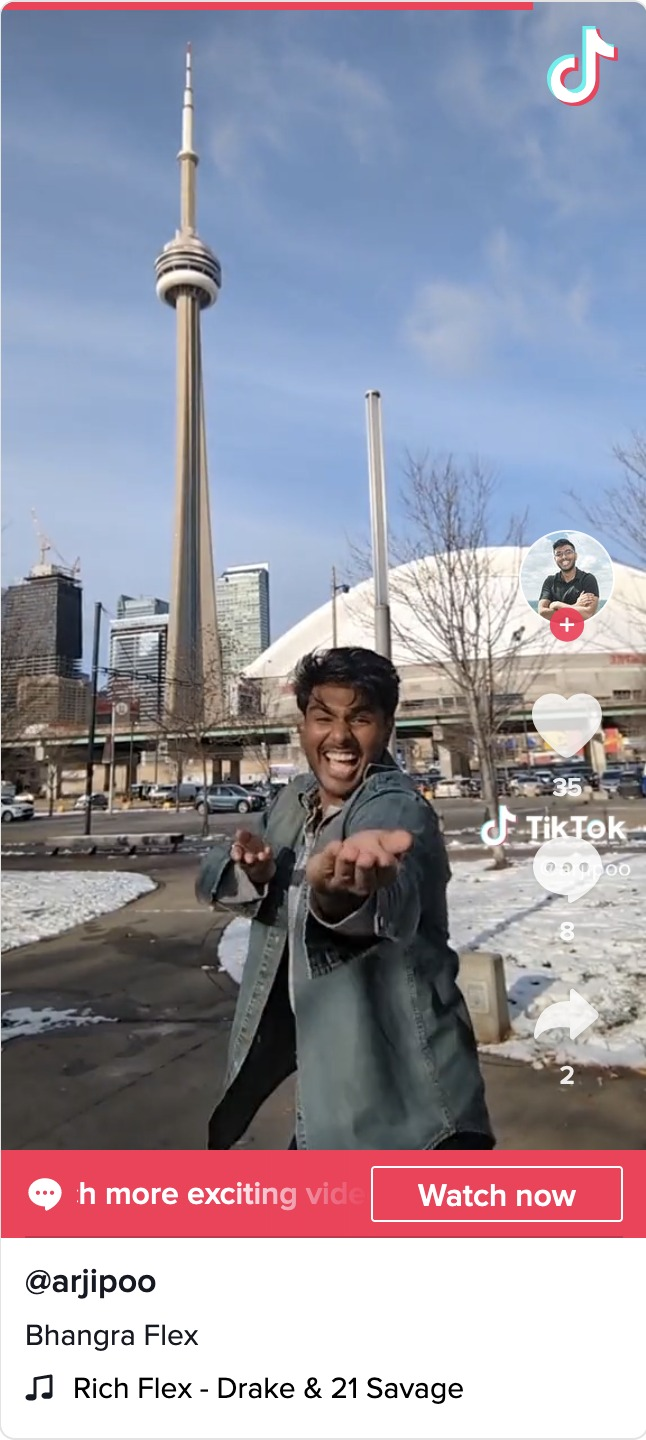
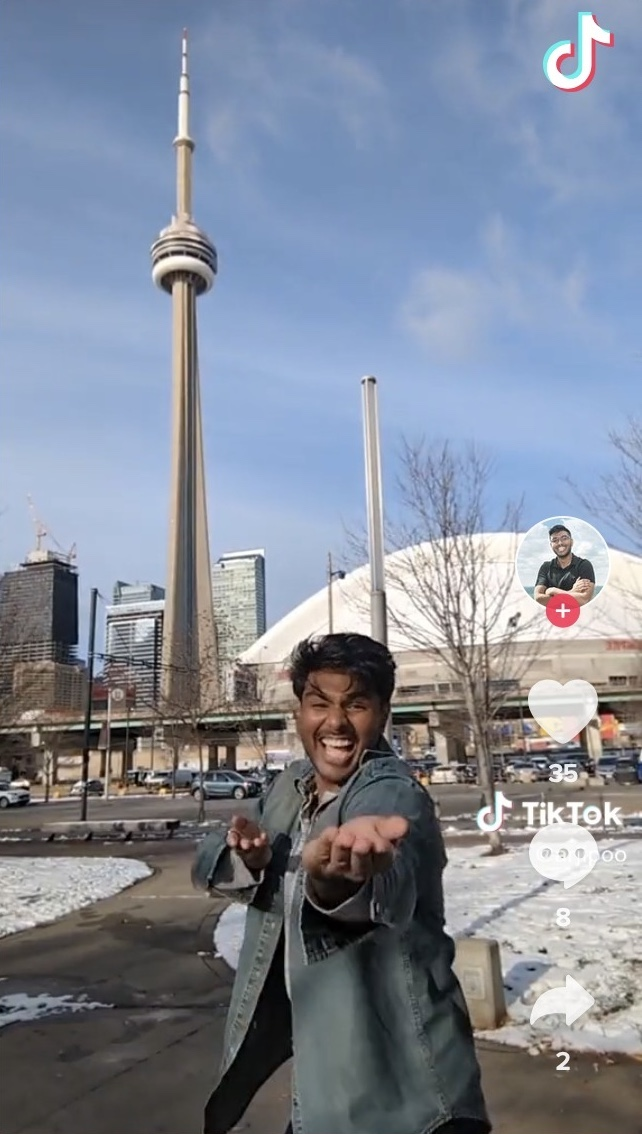
update tiktokpic + images size/place + tab button colour

diff --git a/src/routes/+page.svelte b/src/routes/+page.svelte
@@ -177,28 +177,29 @@
 				</blockquote>
 				<script async src="https://www.tiktok.com/embed.js"></script>
 			{:else}
-				<a class="tiktokpic" href="https://www.tiktok.com/@arjipoo/video/7167011413393706246">
-					<img
+				<div class="posts">
+					<a
+						class="post"
 						target="_blank"
-						style="width: 325px;"
-						src="{base}/tiktok.jpeg"
-						alt="Arjun's Bhangra Flex tiktok screenshot"
-					/>
-				</a>
+						href="https://www.tiktok.com/@arjipoo/video/7167011413393706246"
+					>
+						<div class="post-art">
+							<img src="{base}/tiktok.jpeg" alt="Arjun's Bhangra Flex tiktok screenshot" />
+						</div>
+						<h4>Bhangra Flex 🔗</h4>
+						<p>Bringing out the bhangra moves at some of the good Toronto views.</p>
+					</a>
+				</div>
 			{/if}
 		</div>
 	</div>
-	<div>
-		<p>
-			I've got a lot of content across the internet. You can read more of <a
-				target="_blank"
-				href={links.writing}>my writing</a
-			>, check out some of <a target="_blank" href={links.projects}>my projects</a>, and watch more
-			of
-			<a target="_blank" href="https://www.tiktok.com/@arjipoo">my TikToks</a>.
-		</p>
-	</div>
-	<div />
+	<p>
+		I've got a lot of content across the internet. You can read more of <a
+			target="_blank"
+			href={links.writing}>my writing</a
+		>, check out some of <a target="_blank" href={links.projects}>my projects</a>, and watch more of
+		<a target="_blank" href="https://www.tiktok.com/@arjipoo">my TikToks</a>.
+	</p>
 </section>
 
 <section class="story">
@@ -489,7 +490,7 @@
 
 		& > div {
 			display: grid;
-			grid-template-columns: 1fr auto;
+			grid-template-columns: 53% auto;
 			grid-column-gap: 50px;
 
 			@media screen and (max-width: 791px) {
@@ -546,8 +547,15 @@
 
 		.tiktok.section {
 			border-radius: 18px;
-			.tiktokpic:hover {
-				outline: 1px solid #ababab;
+			.posts .post .post-art {
+				height: auto;
+
+				img {
+					width: 100%;
+					height: auto;
+					object-fit: cover;
+					border-radius: 10px;
+				}
 			}
 		}
 
@@ -622,6 +630,10 @@
 			height: 60vh;
 			overflow: visible;
 			margin: auto;
+
+			@media screen and (max-width: 791px) {
+				left: -10vw;
+			}
 		}
 
 		img {
@@ -633,6 +645,12 @@
 			box-shadow: 0px 0px 40px #111;
 			transition: filter 1s ease-in-out;
 			// transition: opacity 0.5s ease-in-out, left 0.8s ease-in-out, top 0.8s ease-in-out;
+
+			@media screen and not (max-width: 791px) {
+				height: auto;
+				max-height: 33vh;
+				width: 33vw;
+			}
 
 			@keyframes fadeIn {
 				from {
@@ -664,6 +682,7 @@
 				left: 20px;
 			}
 			button {
+				color: var(--text-colordark);
 				border: 1px solid var(--border-color);
 				border-bottom: 0px;
 				background-color: var(--bg-colorlight);
